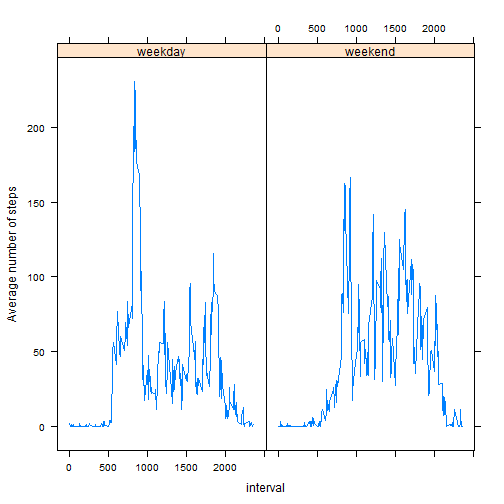
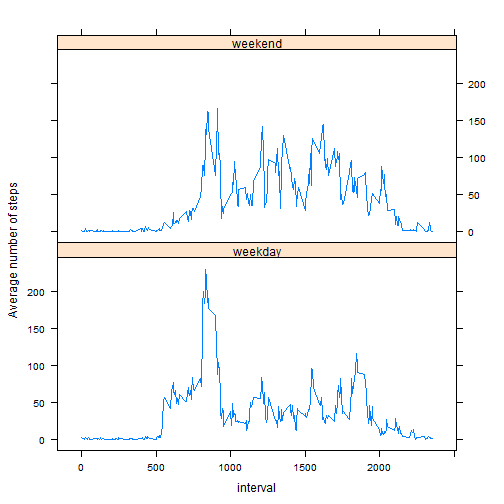
New version with different figure layout.

diff --git a/PA1_template.html b/PA1_template.html
@@ -279,10 +279,10 @@ data$weekday[weekdays(as.Date(data$date)) %in% c(&quot;Saturday&quot;,&quot;Sund
 </code></pre>
 
 <pre><code class="r">x&lt;-aggregate(data$steps,list(interval=data$interval,weekday=data$weekday),mean)
-xyplot(x~interval|weekday,data=x,type=&quot;l&quot;, ylab=&quot;Average number of steps&quot;)
+xyplot(x~interval|weekday,data=x,type=&quot;l&quot;, ylab=&quot;Average number of steps&quot;,layout=c(1,2))
 </code></pre>
 
[2 lines of base64/hex data omitted]
 
 <p>There do appear to be some differences between weekdays and weekends. The mysterfy individual looks to exercise weekday mornings and then is reasonably sedentary.  On the weekends, s/he is moderately active throughout the day and stays active later into the evening.</p>
 

diff --git a/PA1_template.md b/PA1_template.md
@@ -132,7 +132,7 @@ library(lattice)
 
 ```r
 x<-aggregate(data$steps,list(interval=data$interval,weekday=data$weekday),mean)
-xyplot(x~interval|weekday,data=x,type="l", ylab="Average number of steps")
+xyplot(x~interval|weekday,data=x,type="l", ylab="Average number of steps",layout=c(1,2))
 ```
 
 ![plot of chunk unnamed-chunk-7](figure/unnamed-chunk-7.png) 
